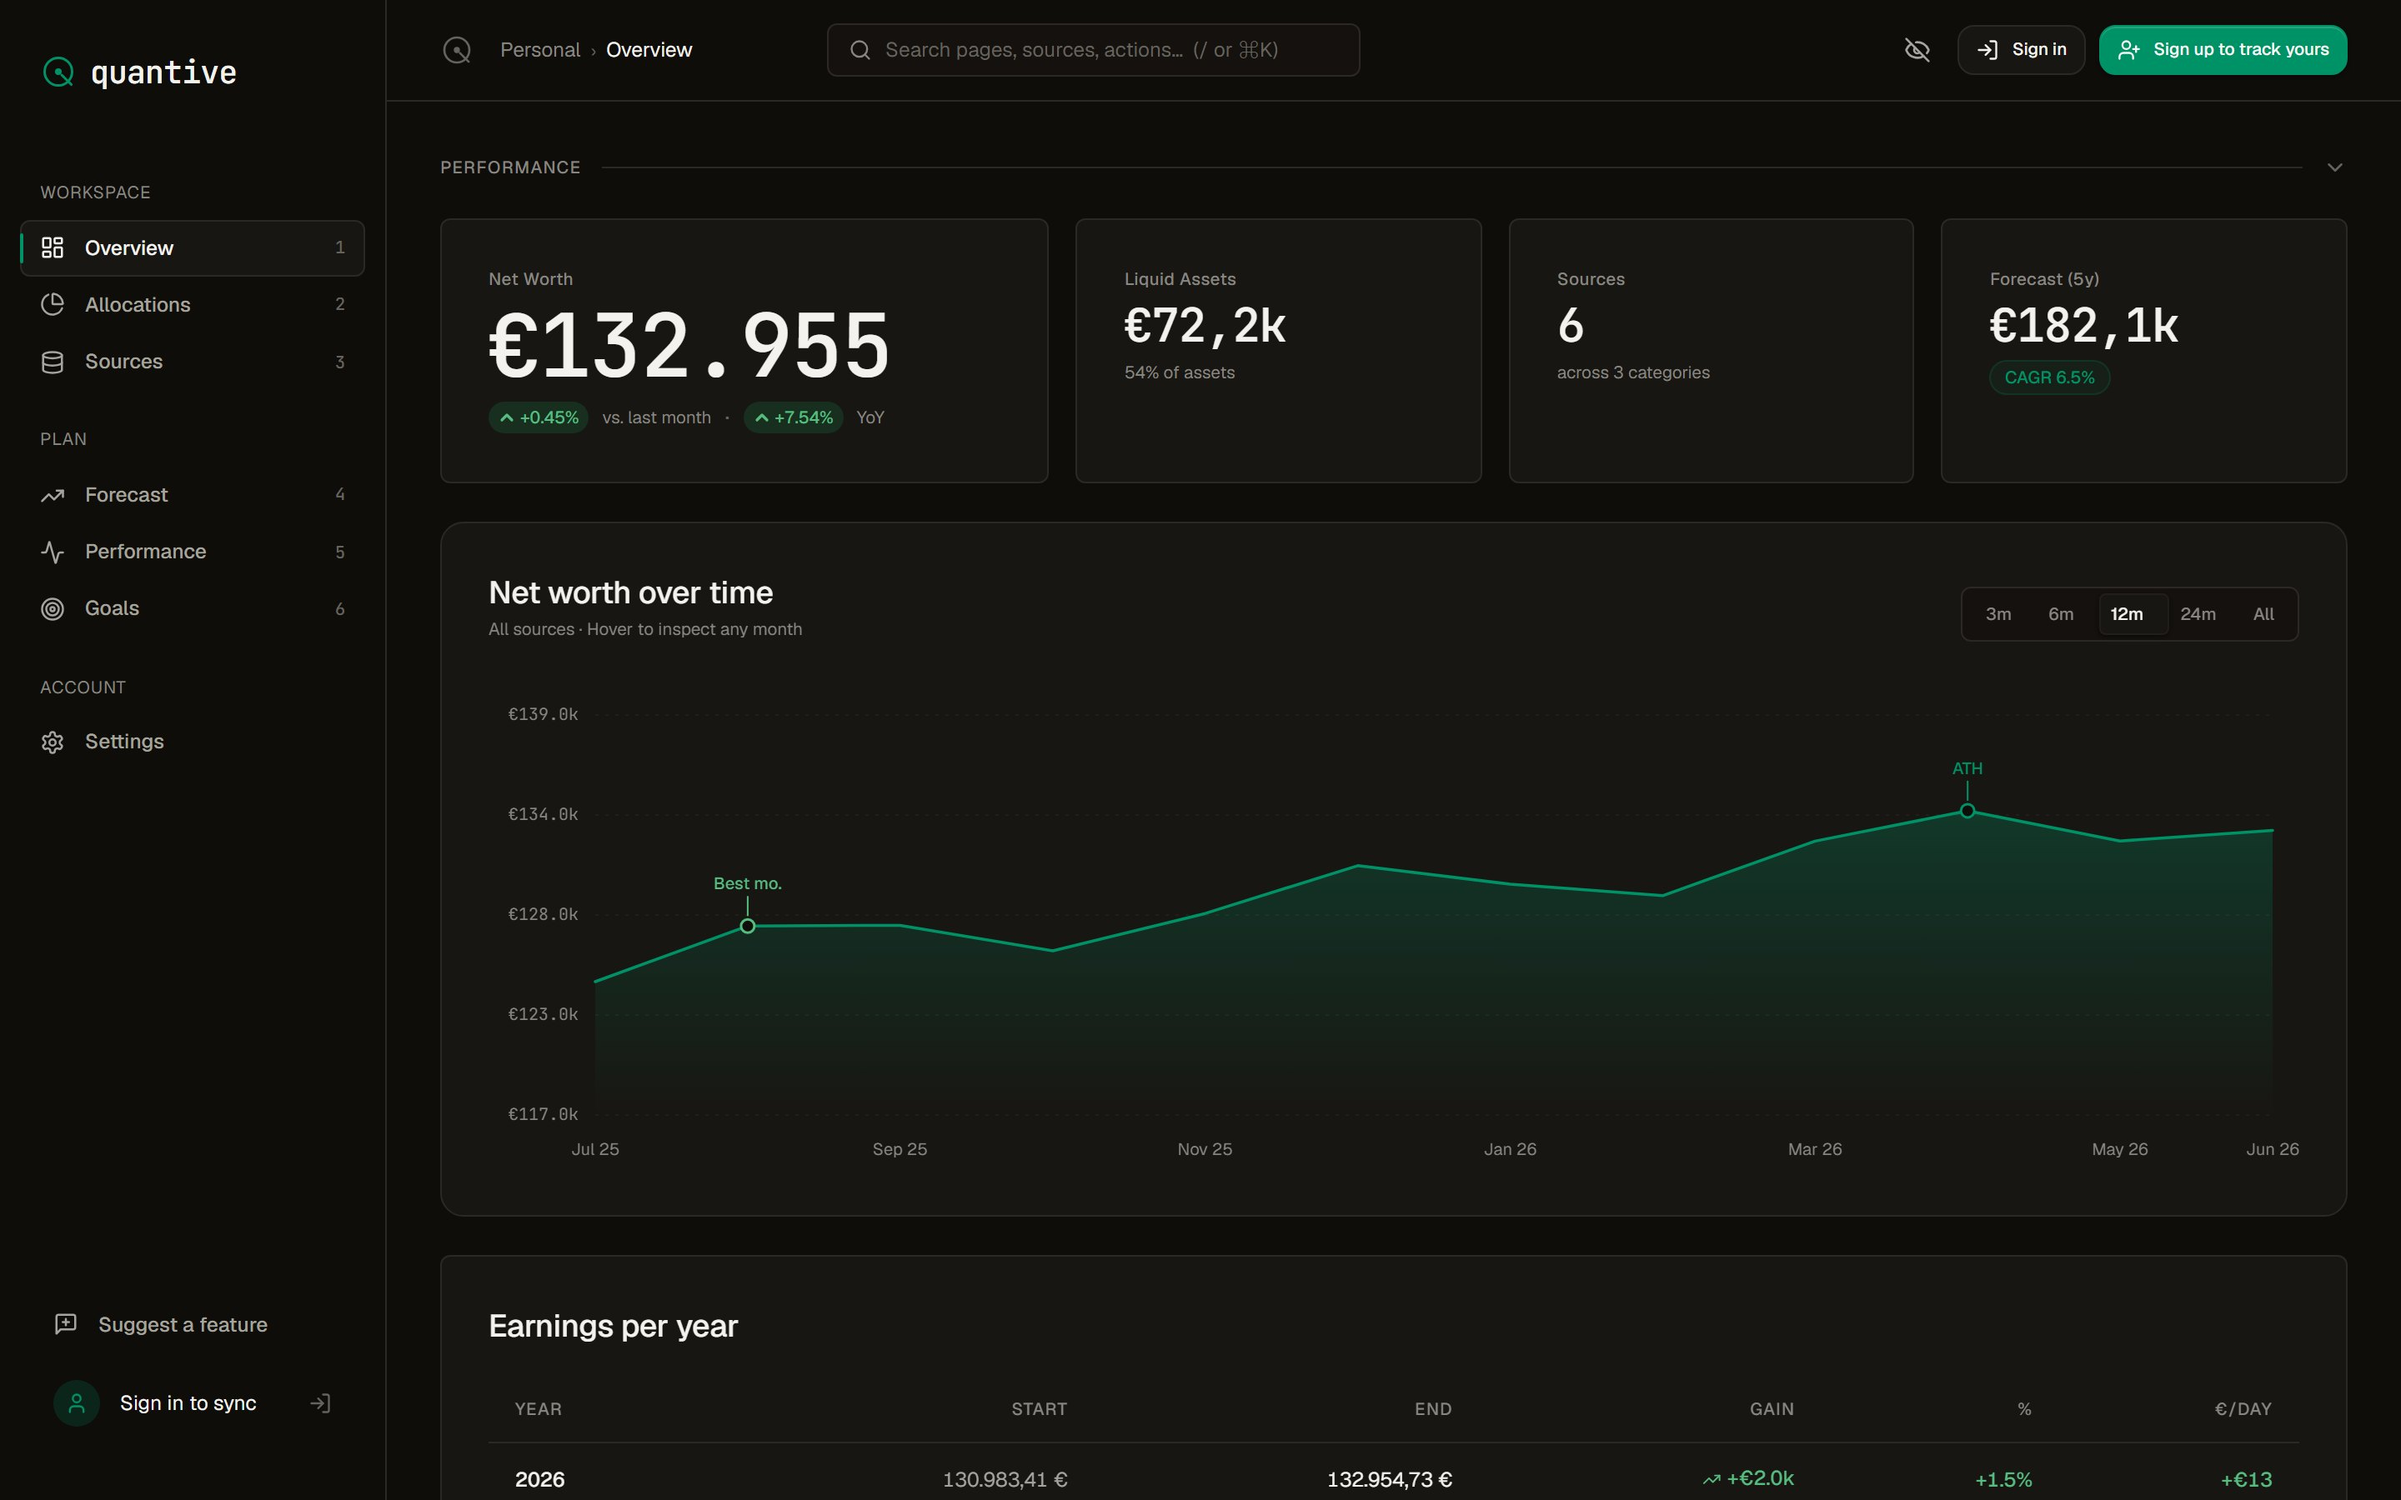
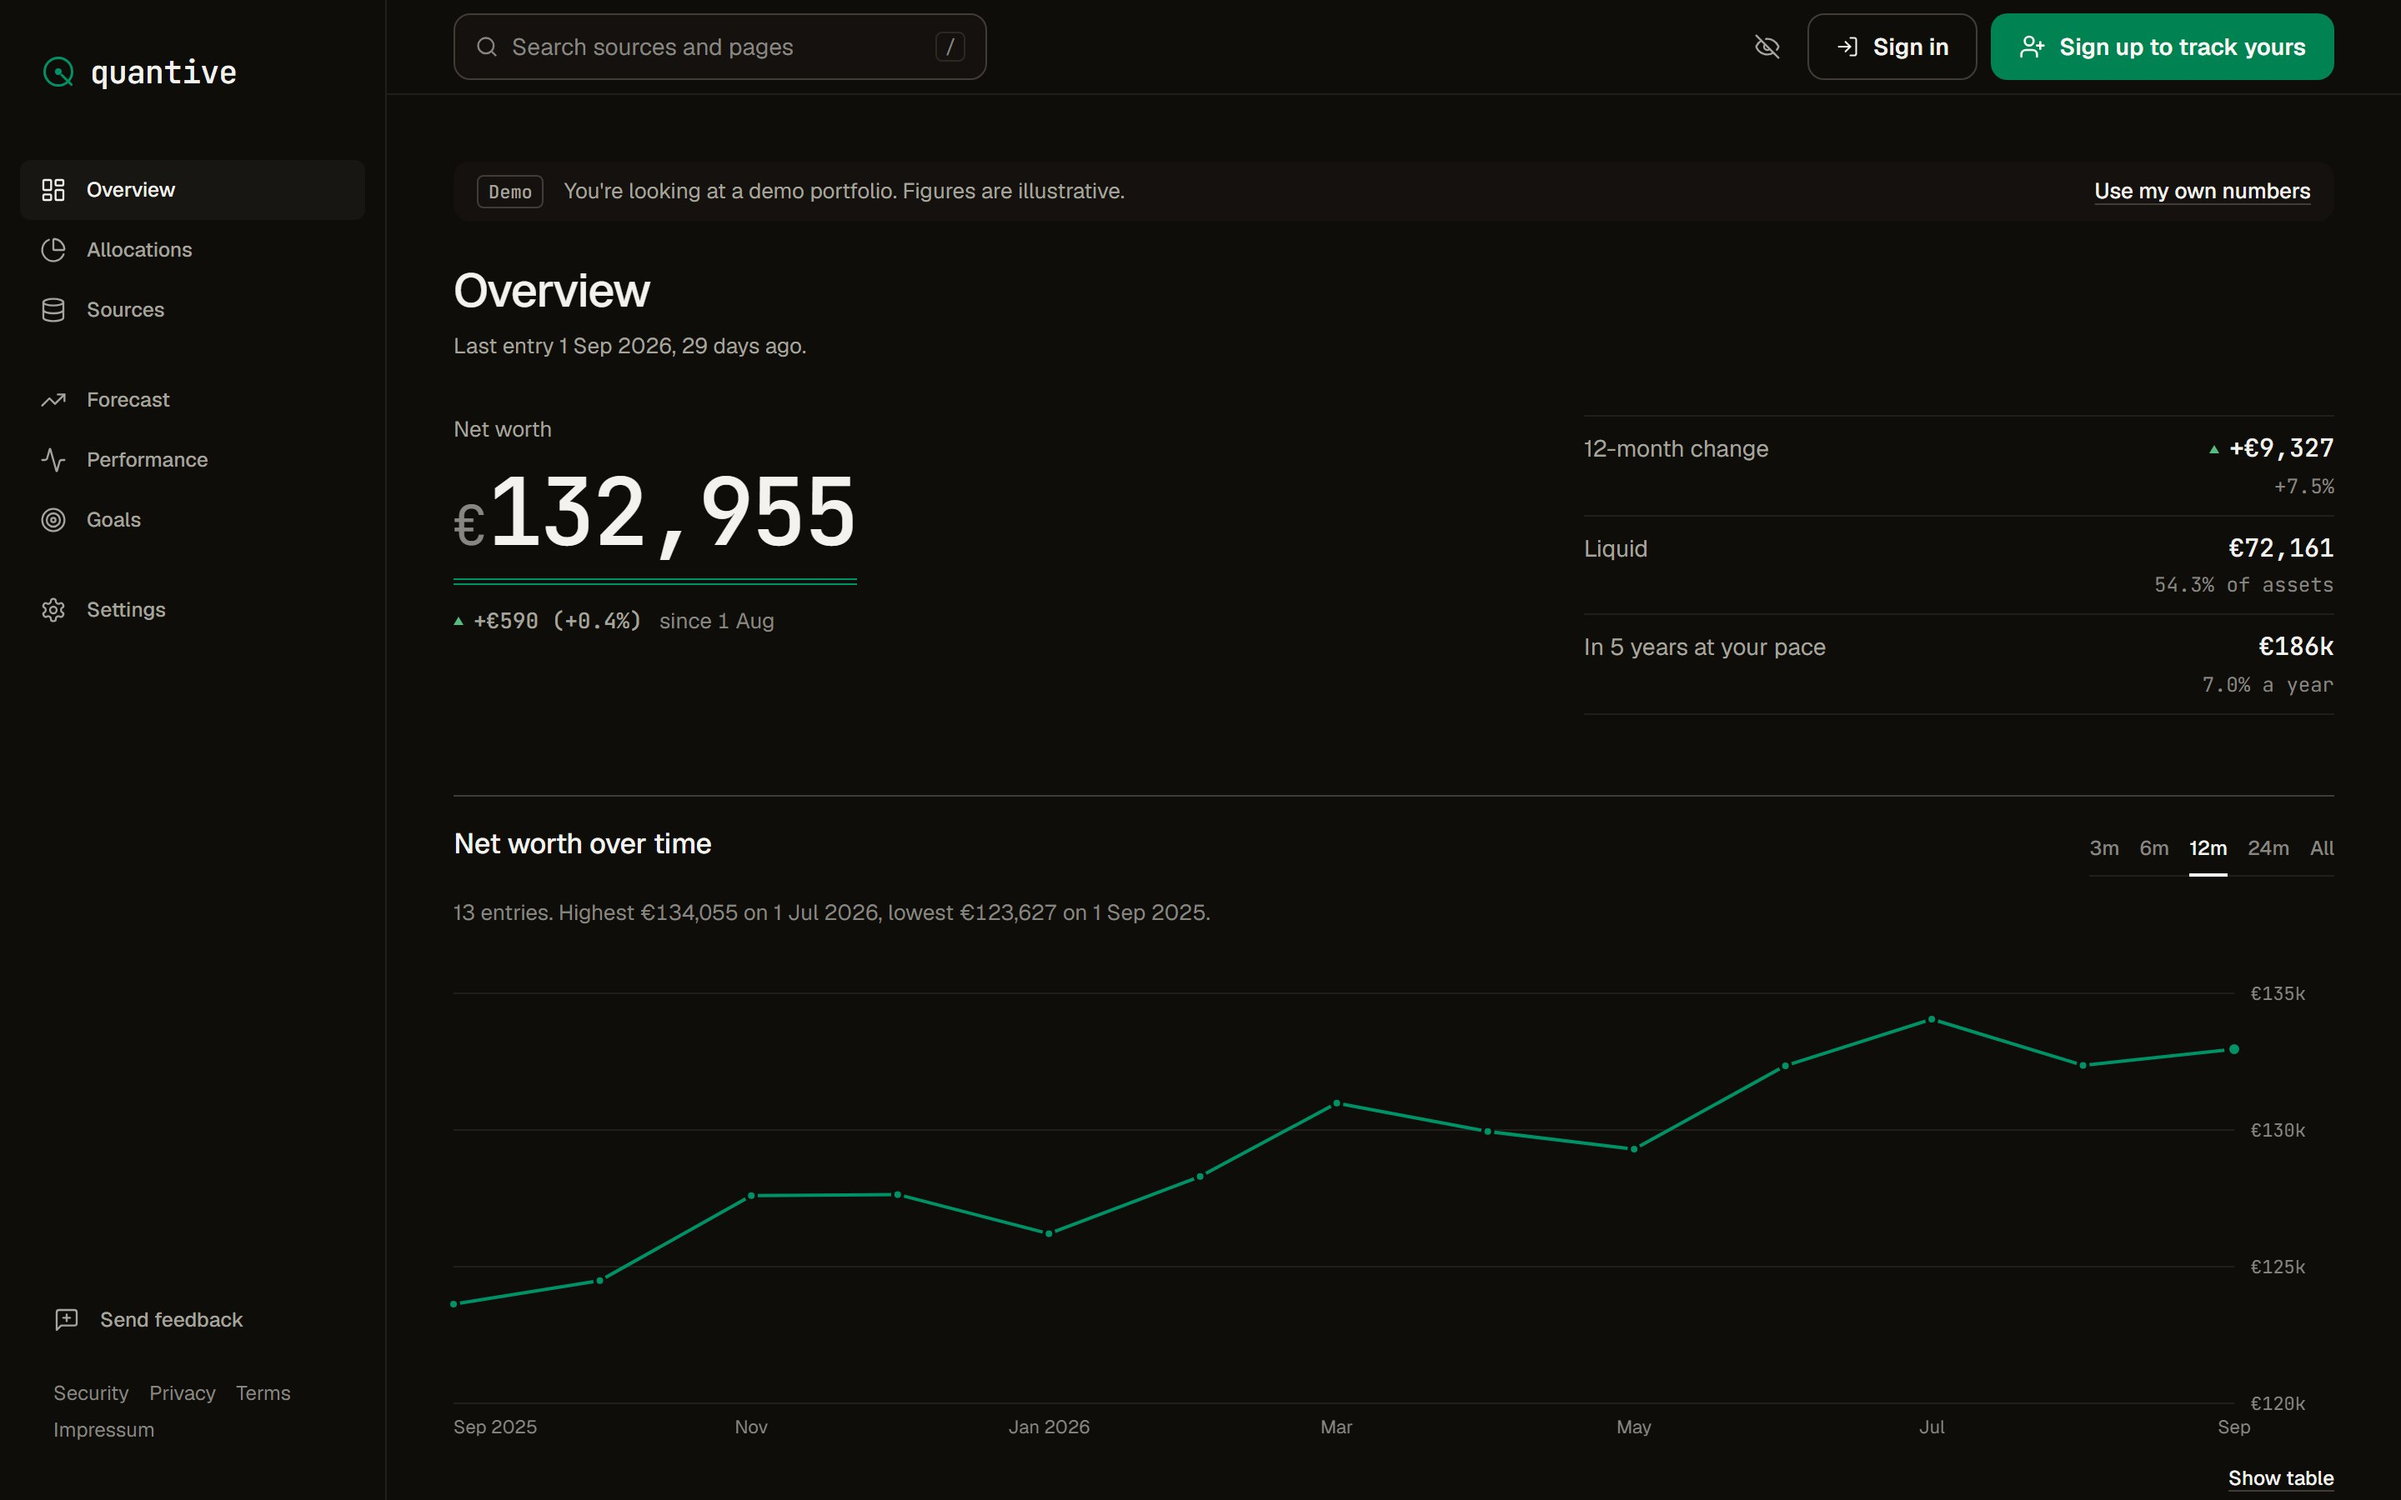
feat: update README and FAQs for clarity, enhance accessibility tests, and refine analytics event capture

diff --git a/supabase/functions/stripe-webhook/index.ts b/supabase/functions/stripe-webhook/index.ts
@@ -478,11 +478,11 @@ async function sendProWelcomeEmail(params: {
     <p style="margin: 0 0 12px;">What's now unlocked:</p>
     <ul style="margin: 0 0 16px; padding-left: 20px;">
       <li style="margin-bottom: 4px;">Full historical view — every snapshot you've recorded, charted and tabular</li>
-      <li style="margin-bottom: 4px;">Forecasting engine with CAGR projection and 95% confidence intervals</li>
+      <li style="margin-bottom: 4px;">Forecasts 1, 3 or 5 years out, with a range from your own history</li>
       <li style="margin-bottom: 4px;">Milestone &amp; goal tracking</li>
       <li style="margin-bottom: 4px;">Benchmark comparison against S&amp;P 500 and inflation</li>
       <li style="margin-bottom: 4px;">Month-by-month summary table</li>
-      <li>Excel/CSV export and PDF wealth report</li>
+      <li>Excel export and the one-page PDF report</li>
     </ul>
     <p style="margin: 0 0 16px;">You can manage your subscription, update your card, or cancel at any time from <a href="https://usequantive.app/settings" style="color: #111;">Settings → Billing</a>. If anything breaks or surprises you, reply to this email — it goes straight to me.</p>
     <p style="margin: 0 0 4px;">Thanks,</p>
@@ -495,11 +495,11 @@ async function sendProWelcomeEmail(params: {
     `Thanks for upgrading. Your subscription is active (${planLabel}). Stripe will email a separate receipt with the formal invoice for your records.\n\n` +
     `What's now unlocked:\n` +
     `- Full historical view — every snapshot you've recorded, charted and tabular\n` +
-    `- Forecasting engine with CAGR projection and 95% confidence intervals\n` +
+    `- Forecasts 1, 3 or 5 years out, with a range from your own history\n` +
     `- Milestone & goal tracking\n` +
     `- Benchmark comparison against S&P 500 and inflation\n` +
     `- Month-by-month summary table\n` +
-    `- Excel/CSV export and PDF wealth report\n\n` +
+    `- Excel export and the one-page PDF report\n\n` +
     `Manage your subscription at https://usequantive.app/settings. If anything breaks or surprises you, reply to this email — it goes straight to me.\n\n` +
     `Thanks,\nPedro · Quantive`;
 

diff --git a/src/lib/forecast.ts b/src/lib/forecast.ts
@@ -1,26 +1,28 @@
 /**
  * @module forecast
  * Generates net worth forecast projections using Compound Annual Growth Rate (CAGR).
- * Includes confidence intervals based on historical residual standard deviation.
+ * Includes a range band sized from the spread of the history around its own trend.
  */
 
-/** A single forecast data point with confidence bounds. */
+/** A single forecast data point with its range bounds. */
 export interface ForecastPoint {
   /** The projected future date. */
   date: Date;
   /** The central forecast value. */
   forecast: number;
-  /** Upper bound of the 95% confidence interval. */
+  /** Upper edge of the range band. */
   upper: number;
-  /** Lower bound of the 95% confidence interval. */
+  /** Lower edge of the range band. */
   lower: number;
 }
 
 /**
  * Generate net worth forecast points from historical snapshots.
  *
- * Uses CAGR to project forward, then widens confidence bands over time
- * based on the standard deviation of historical residuals (±1.96σ for ~95% CI).
+ * Uses CAGR to project forward, then widens the band over time from the
+ * standard deviation of historical residuals (±1.96σ). This is a heuristic
+ * range, not a statistical 95% interval, so user-facing copy calls it "a range
+ * from your own history".
  *
  * @param snapshots - Historical data points with date and total net worth.
  * @param monthsForward - Number of months to forecast (default: 12).
@@ -54,7 +56,7 @@ export function generateForecast(
 
   const monthlyRate = Math.pow(1 + cagr, 1 / 12) - 1;
 
-  // Compute residuals for confidence interval
+  // Residuals around the fitted trend size the range band
   const residuals: number[] = [];
 
   for (const s of sorted) {
@@ -82,7 +84,7 @@ export function generateForecast(
     futureDate.setMonth(futureDate.getMonth() + m);
     const predicted = last.total * Math.pow(1 + monthlyRate, m);
 
-    // Confidence band widens over time (√(1 + m/3) factor)
+    // Band widens over time (√(1 + m/3) factor)
     const spread = stdDev * 1.96 * Math.sqrt(1 + m / 3);
     points.push({
       date: futureDate,

diff --git a/src/lib/analytics.ts b/src/lib/analytics.ts
@@ -165,7 +165,7 @@ export type RecoverySetupSource = 'offer_modal' | 'settings';
 export type AuthOpenMode = 'signin' | 'signup';
 export type WebVitalName = 'LCP' | 'INP' | 'CLS' | 'FCP' | 'TTFB';
 export type WebVitalRating = 'good' | 'needs-improvement' | 'poor';
-export type OnboardingStep = 'accounts' | 'recovery' | 'goal';
+export type OnboardingStep = 'accounts' | 'recovery';
 
 export const analytics = {
   pageViewed(path: string): void {
@@ -185,20 +185,11 @@ export const analytics = {
     capture('onboarding_empty_state_viewed');
   },
   /**
-   * Fired once per session when the dashboard getting-started checklist first
-   * shows. `completed` is how many steps are already done at that point — the
-   * funnel's entry state. No portfolio data.
+   * Fired from the overview's follow-up lines for a new account: "Add your
+   * other accounts" (`accounts`) and "Save your recovery code" (`recovery`).
    */
-  onboardingChecklistShown(props: { completed: number }): void {
-    capture('onboarding_checklist_shown', { completed: props.completed });
-  },
-  /** Fired when a user clicks a checklist step's action button. */
   onboardingCtaClicked(props: { step: OnboardingStep }): void {
     capture('onboarding_cta_clicked', { step: props.step });
-  },
-  /** Fired when a user dismisses the checklist; `completed` is how far they got. */
-  onboardingChecklistDismissed(props: { completed: number }): void {
-    capture('onboarding_checklist_dismissed', { completed: props.completed });
   },
   signedIn(): void {
     capture('signed_in');

diff --git a/src/lib/__tests__/analytics.events.test.ts b/src/lib/__tests__/analytics.events.test.ts
@@ -121,14 +121,11 @@ describe('analytics event capture', () => {
     expect(Object.keys(call?.[1] ?? {})).toEqual(['count']);
   });
 
-  it('captures onboarding checklist funnel events with anonymous payloads', async () => {
+  it('captures the onboarding follow-up click with only the step', async () => {
     const analytics = await loadAnalytics();
-    analytics.onboardingChecklistShown({ completed: 1 });
     analytics.onboardingCtaClicked({ step: 'recovery' });
-    analytics.onboardingChecklistDismissed({ completed: 2 });
-    const byName = new Map(captureSpy.mock.calls.map((c) => [c[0], c[1]]));
-    expect(byName.get('onboarding_checklist_shown')).toMatchObject({ completed: 1 });
-    expect(byName.get('onboarding_cta_clicked')).toMatchObject({ step: 'recovery' });
-    expect(byName.get('onboarding_checklist_dismissed')).toMatchObject({ completed: 2 });
+    const call = captureSpy.mock.calls.find((c) => c[0] === 'onboarding_cta_clicked');
+    expect(call?.[1]).toMatchObject({ step: 'recovery' });
+    expect(Object.keys(call?.[1] ?? {})).toEqual(['step']);
   });
 });

diff --git a/index.html b/index.html
@@ -180,7 +180,7 @@
               "name": "Is Quantive free to use?",
               "acceptedAnswer": {
                 "@type": "Answer",
-                "text": "Yes. Core features, including CSV export of all your data, are free forever with no credit card required. Pro is €9/month or €90/year and adds full history, CAGR forecasting, goals, benchmarks, a PDF wealth report, and Excel export."
+                "text": "Yes. Core features, including CSV export of all your data, are free forever with no credit card required. Pro is €9/month or €90/year and adds full history, CAGR forecasting, goals, benchmarks, a PDF report, and Excel export."
               }
             },
             {

diff --git a/src/pages/landing/faqs.ts b/src/pages/landing/faqs.ts
@@ -15,7 +15,7 @@ export const FAQS: Array<{ q: string; a: string }> = [
   },
   {
     q: "Is Quantive free to use?",
-    a: "Yes. Core features, including CSV export of all your data, are free forever with no credit card required. Pro is €9/month or €90/year and adds full history, CAGR forecasting, goals, benchmarks, a PDF wealth report, and Excel export.",
+    a: "Yes. Core features, including CSV export of all your data, are free forever with no credit card required. Pro is €9/month or €90/year and adds full history, CAGR forecasting, goals, benchmarks, a PDF report, and Excel export.",
   },
   {
     q: "How is Quantive different from a budgeting app?",

diff --git a/src/lib/currencies.ts b/src/lib/currencies.ts
@@ -40,7 +40,7 @@ export interface CurrencyConfig {
   /** English display name (e.g. "Indian Rupee"). Shown alongside the code in pickers. */
   name: string;
   /**
-   * Glyph used in compact rendering (KPI cards, badges, axis labels). Chosen
+   * Glyph used in compact rendering (ledger projections, axis labels). Chosen
    * to be unambiguous: where a native glyph is shared across currencies
    * (`$`, `kr`), we fall back to the ISO code or a country-prefixed dollar.
    */

diff --git a/e2e/dashboard.spec.ts b/e2e/dashboard.spec.ts
@@ -14,7 +14,7 @@ test.describe('Dashboard', () => {
     }
   });
 
-  test('KPI cards display numeric values', async ({ page }) => {
+  test('net worth figures display numeric values', async ({ page }) => {
     // Values like "€123,456" or "42%" should be present
     const netWorthValue = page.locator('[id="performance"]').getByText(/[€$£₪]\s*[\d,]+|[\d,]+\s*[€$£₪]/).first();
     await expect(netWorthValue).toBeVisible({ timeout: 6000 });

diff --git a/e2e/accessibility.spec.ts b/e2e/accessibility.spec.ts
@@ -26,7 +26,7 @@ test.describe('Accessibility', () => {
     expect(['a', 'button', 'input', 'select', 'textarea', 'div']).toContain(focusedTag);
   });
 
-  test('dashboard KPI cards are keyboard accessible', async ({ page }) => {
+  test('dashboard is keyboard accessible', async ({ page }) => {
     await loadDemo(page);
 
     // Tab through the page and verify focus moves

diff --git a/README.md b/README.md
@@ -4,7 +4,7 @@ The net worth spreadsheet you've outgrown. If you track your wealth in a spreads
 
 **Live:** https://usequantive.app · **Try the demo without signing up:** https://usequantive.app/demo
 
-![Quantive dashboard: KPI cards and the net worth over time chart](public/images/dashboard.jpg)
+![Quantive dashboard: the net worth figure with its 12-month change, and the net worth over time chart](public/images/dashboard.jpg)
 
 ---
 
@@ -48,7 +48,7 @@ The crypto module (`src/lib/crypto/`) is pure TypeScript, with no I/O and no sid
 - Full allocation charts by volatility class and liquidity
 - Multi-currency display in 14 currencies (EUR, USD, GBP, NOK, SEK, DKK, CHF, CAD, AUD, JPY, PLN, BRL, INR, ZAR). Historical snapshots are valued at the exchange rate of their original date, not today's
 - Spreadsheet import and manual balance entry
-- Drawdown and downside stats: maximum drawdown with recovery time, longest decline, best and worst rolling year
+- Highs and lows: maximum drawdown with recovery time, longest decline, best and worst 12 months
 - Optional email reminders to update your balances on a schedule you set
 - Cloud sync with end-to-end encryption
 - CSV export of all your entries, at any time
@@ -57,12 +57,12 @@ The crypto module (`src/lib/crypto/`) is pure TypeScript, with no I/O and no sid
 
 **Pro (€9/month or €90/year, ~€7.50/mo)**
 - Full historical view: every snapshot since you started, charted and as a table
-- Net worth projection with a 95% confidence cone. Pick a conservative, base, or optimistic annual rate (5% / 7.2% / 10%); the band is fitted to your own historical variance. The PDF report's forecast instead uses your trailing 3-year CAGR.
+- Forecast 1, 3 or 5 years out, at your own pace so far or at a fixed 5%, 7.2% or 10% a year, with a range from your own history. The PDF report's forecast instead uses your trailing 3-year CAGR.
 - Milestone and goal tracking: targets with progress and ETA
 - Benchmark comparison: your net worth against inflation (Eurostat HICP) and the S&P 500 (FRED), with MSCI World coming soon
 - Month-by-month summary table
 - Excel export: your full data as a workbook
-- PDF wealth report: a one-page summary for an adviser or an annual review
+- PDF report: a one-page summary for an adviser or an annual review
 - Priority support (24h response)
 
 ---
